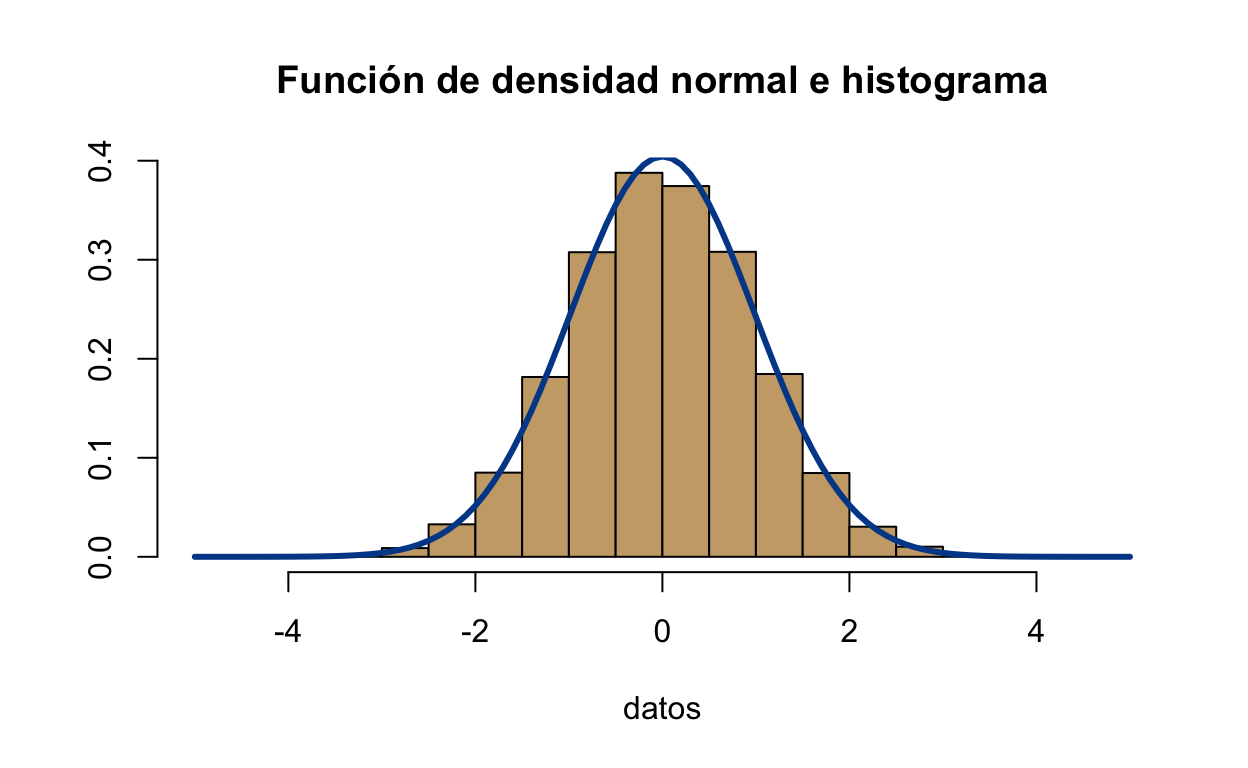
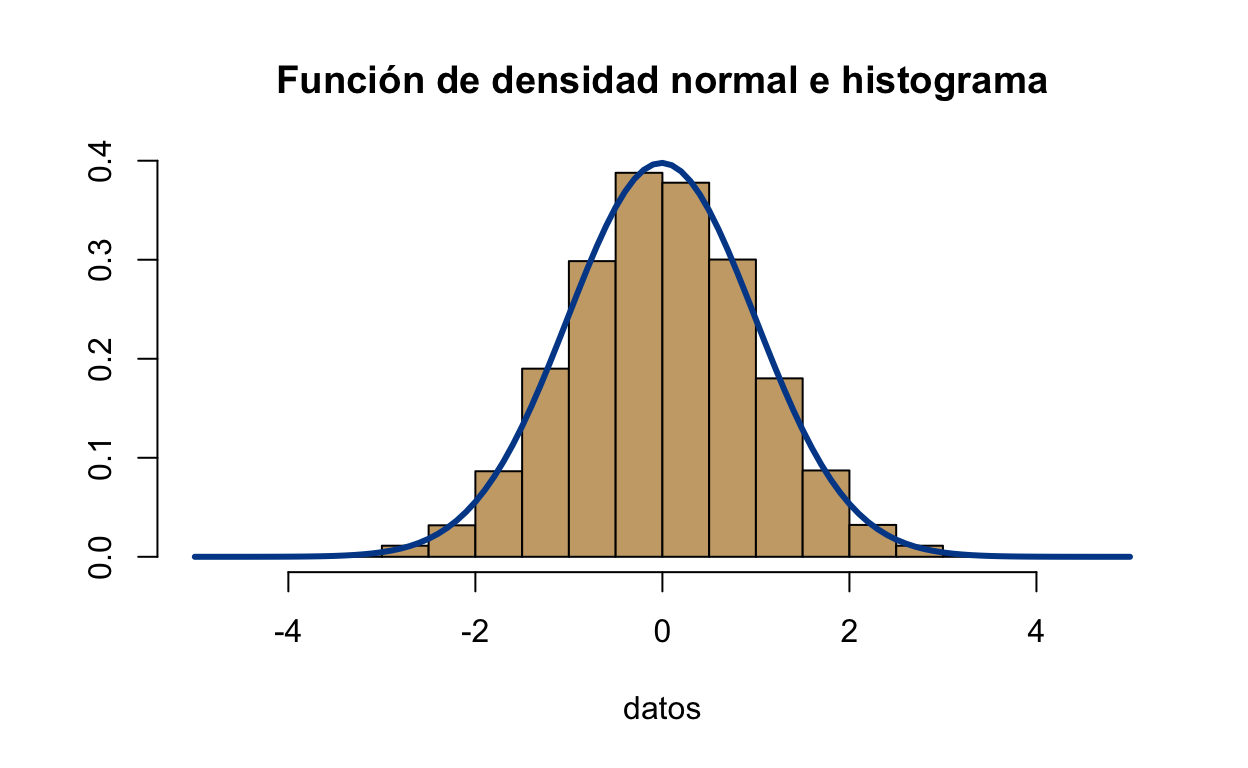
pagina actulizada

diff --git a/docs/Distribuciones.html b/docs/Distribuciones.html
@@ -2056,7 +2056,7 @@ code span.wa { color: #da4453; } /* Warning */
   <!--radix_placeholder_site_in_header-->
   <style type="text/css">
   .distill-site-nav {
-      color: rgba(0,74,151,1);
+      color: rgba(255,255,255,1);
       background-color: rgba(0,57,166,0.95);
       font-size: 15px;
       font-weight: 300;
@@ -2327,7 +2327,7 @@ class="math inline">\(X\sim \mathcal{N}(0,1)\)</span></p>
 <pre class="sourceCode r"><code class="sourceCode r"><span class='fu'><a href='https://rdrr.io/r/base/print.html'>print</a></span><span class='op'>(</span><span class='fu'><a href='https://rdrr.io/r/stats/Normal.html'>rnorm</a></span><span class='op'>(</span><span class='fl'>5</span><span class='op'>)</span><span class='op'>)</span>
 </code></pre>
 </div>
-<pre><code>[1]  0.03631102 -0.79352866  0.97533527 -0.34864384  1.96594606</code></pre>
+<pre><code>[1]  0.09570714  0.59133615 -0.62142895  1.28812189  1.10607746</code></pre>
 </div>
 <p>Se realiza la gráfica de la función de densidad y de distribución</p>
 <div class="layout-chunk" data-layout="l-body">
@@ -2369,7 +2369,7 @@ class="math inline">\(X\sim \mathcal{N}(0,1)\)</span></p>
 <pre class="sourceCode r"><code class="sourceCode r"><span class='fu'><a href='https://rdrr.io/r/base/print.html'>print</a></span><span class='op'>(</span><span class='fu'><a href='https://rdrr.io/r/stats/Normal.html'>rnorm</a></span><span class='op'>(</span><span class='fl'>5</span>, mean <span class='op'>=</span> <span class='fl'>5</span>, sd <span class='op'>=</span> <span class='fl'>0.5</span><span class='op'>)</span><span class='op'>)</span>
 </code></pre>
 </div>
-<pre><code>[1] 4.538023 4.660162 4.996246 6.064476 4.034189</code></pre>
+<pre><code>[1] 4.359950 4.418422 5.913039 5.960679 5.086145</code></pre>
 </div>
 <p>Se realiza la gráfica de la función de densidad y de distribución</p>
 <div class="layout-chunk" data-layout="l-body">

diff --git a/docs/about.html b/docs/about.html
@@ -2049,7 +2049,7 @@ code span.wa { color: #5e5e5e; font-style: italic; } /* Warning */
   <!--radix_placeholder_site_in_header-->
   <style type="text/css">
   .distill-site-nav {
-      color: rgba(0,74,151,1);
+      color: rgba(255,255,255,1);
       background-color: rgba(0,57,166,0.95);
       font-size: 15px;
       font-weight: 300;

diff --git a/docs/index.html b/docs/index.html
@@ -2049,7 +2049,7 @@ code span.wa { color: #5e5e5e; font-style: italic; } /* Warning */
   <!--radix_placeholder_site_in_header-->
   <style type="text/css">
   .distill-site-nav {
-      color: rgba(0,74,151,1);
+      color: rgba(255,255,255,1);
       background-color: rgba(0,57,166,0.95);
       font-size: 15px;
       font-weight: 300;

diff --git a/docs/estilo.css b/docs/estilo.css
@@ -1,5 +1,5 @@
 .distill-site-nav {
-    color: rgba(0,74,151,1);
+    color: rgba(255,255,255,1);
     background-color: rgba(0,57,166,0.95);
     font-size: 15px;
     font-weight: 300;
